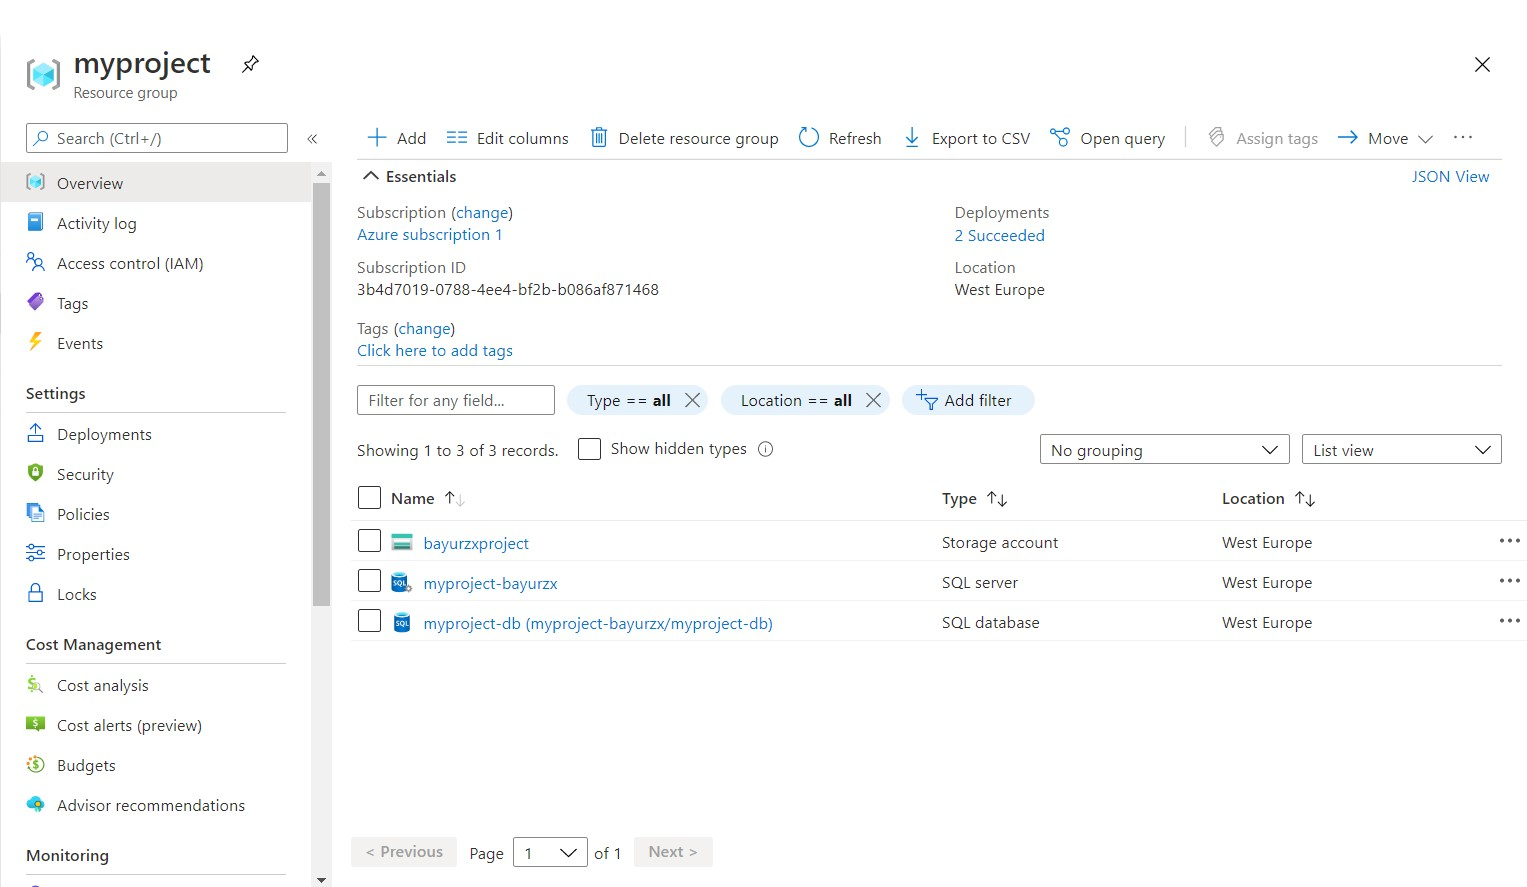
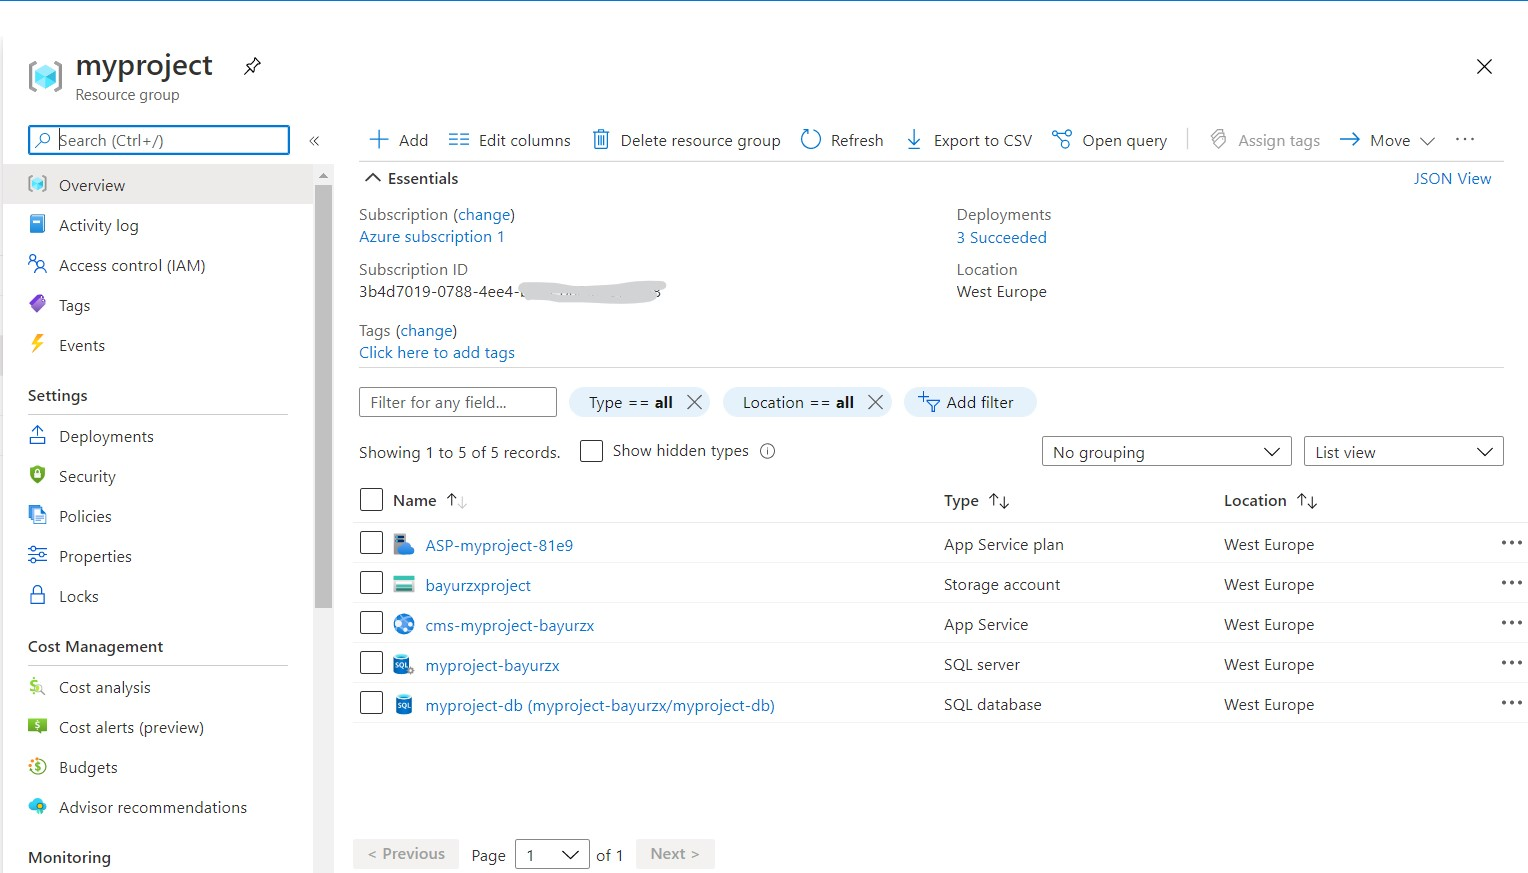
more pics

diff --git a/README.md b/README.md
@@ -15,10 +15,12 @@ Or, once the MS Login button is implemented, it will automatically log into the 
 1. Create a Resource Group in Azure.
 ## `Which I did`
 2. Create an SQL Database in Azure that contains a user table, an article table, and data in each table (populated with the scripts provided in the SQL Scripts folder).
-## `Thanks, I found the script helpful!`
     - Provide a screenshot of the populated tables as detailed further below.
+    ![image](https://raw.githubusercontent.com/Bayurzx/myproject/master/example_images/bonuses/bonus1_1.jpg)
 3. Create a Storage Container in Azure for `images` to be stored in a container.
     - Provide a screenshot of the storage endpoint URL as detailed further below.
+    ![image](https://raw.githubusercontent.com/Bayurzx/myproject/master/example_images/blob-storage%20account%20properties.jpg)
+
 4. Add functionality to the Sign In With Microsoft button.
     - This will require completing TODOs in `views.py` with the `msal` library, along with appropriate registration in Azure Active Directory.
 5. Choose to use either a VM or App Service to deploy the FlaskWebProject to Azure. Complete the analysis template in `WRITEUP.md` (or include in the README) to compare the two options, as well as detail your reasoning behind choosing one or the other. Once you have made your choice, go through with deployment.
@@ -30,6 +32,8 @@ Or, once the MS Login button is implemented, it will automatically log into the 
 	- Body: "My name is Jane Doe and this is my first article!"
 	- Upload an image of your choice. Must be either a .png or .jpg.
    After saving, click back on the article you created and provide a screenshot proving that it was created successfully. Please also make sure the URL is present in the screenshot.
+   ![image](https://raw.githubusercontent.com/Bayurzx/myproject/master/example_images/live-deploy%20screenshots/hello-world.jpg)
+
 8. Log into the Azure Portal, go to your Resource Group, and provide a screenshot including all of the resources that were created to complete this project. (see sample screenshot in "example_images" folder)
 9. Take a screenshot of the Redirect URIs entered for your registered app, related to the MS Login button.
 10. Take a screenshot of your logs (can be from the Log stream in Azure) showing logging from an attempt to sign in with an invalid login, as well as a valid login.

diff --git a/WRITEUP.md b/WRITEUP.md
@@ -8,6 +8,11 @@
 - App service has more support for legacy apps
 - App Service is easier to scale in the long run in operations, cost, etc.
 
-live-link:
+## I avoided VM on Azure because,
+- VM requires more configuration is less easier to manage and not as fast to deploy as App Services
+- On VM there is less availability options, unless I plan on spending more money on availability zones
+- Need to schedule maintenance when there is a software / OS upgrade
+- Not easy scale in the long run in operations, cost, etc.
 
+## `here is my online-link:`
 http://cms-myproject-bayurzx.azurewebsites.net/
